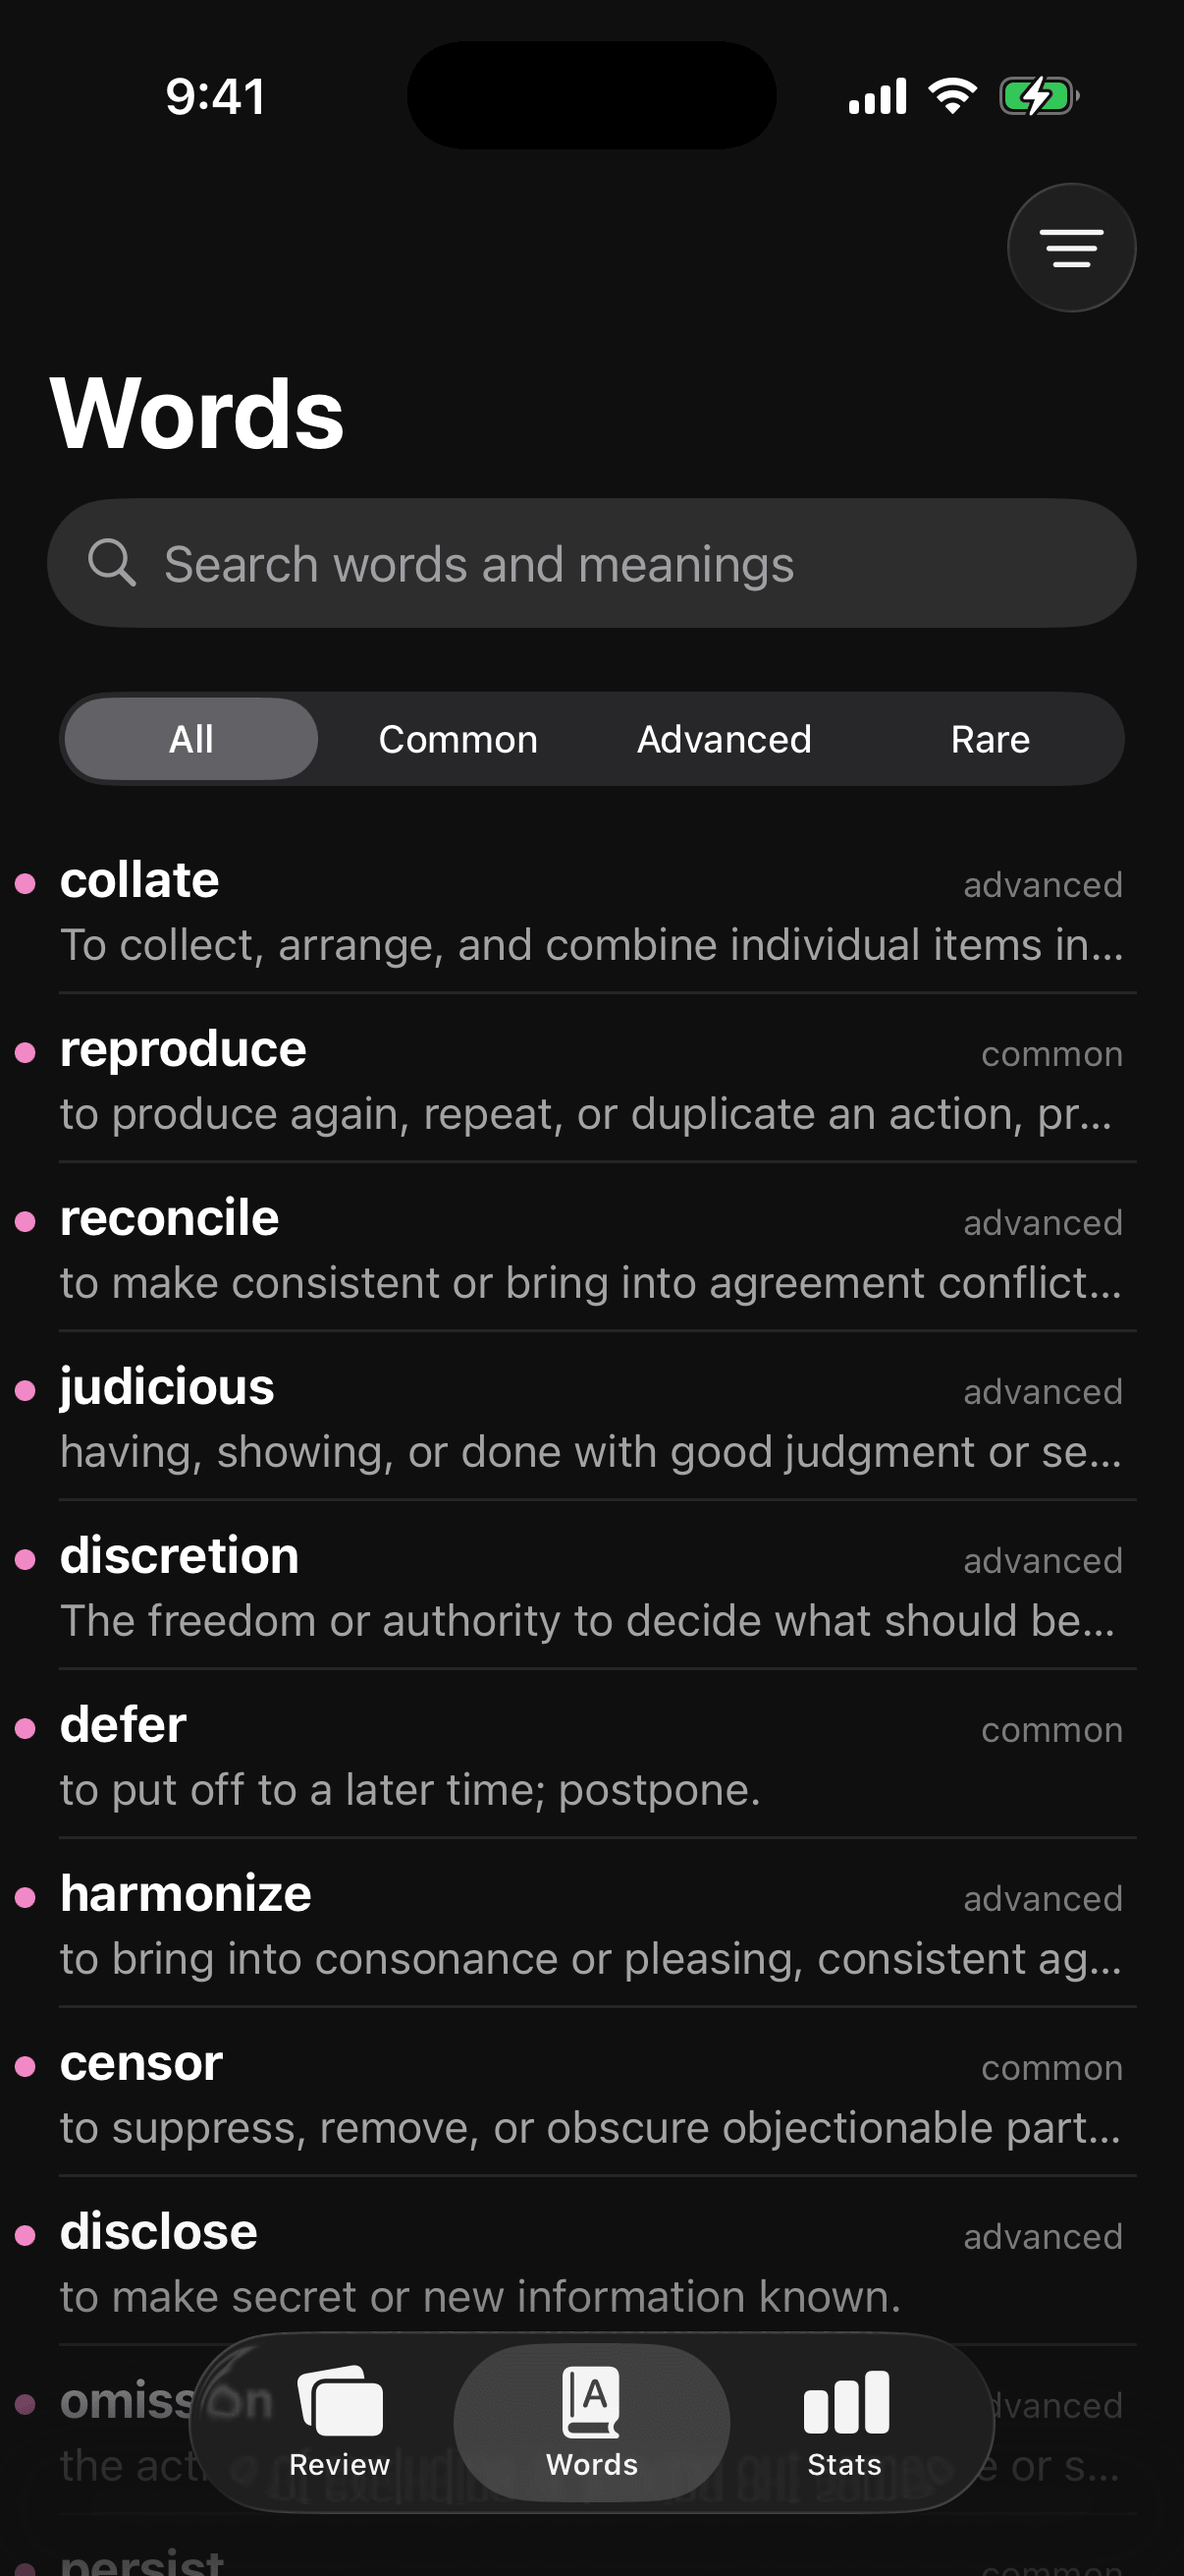
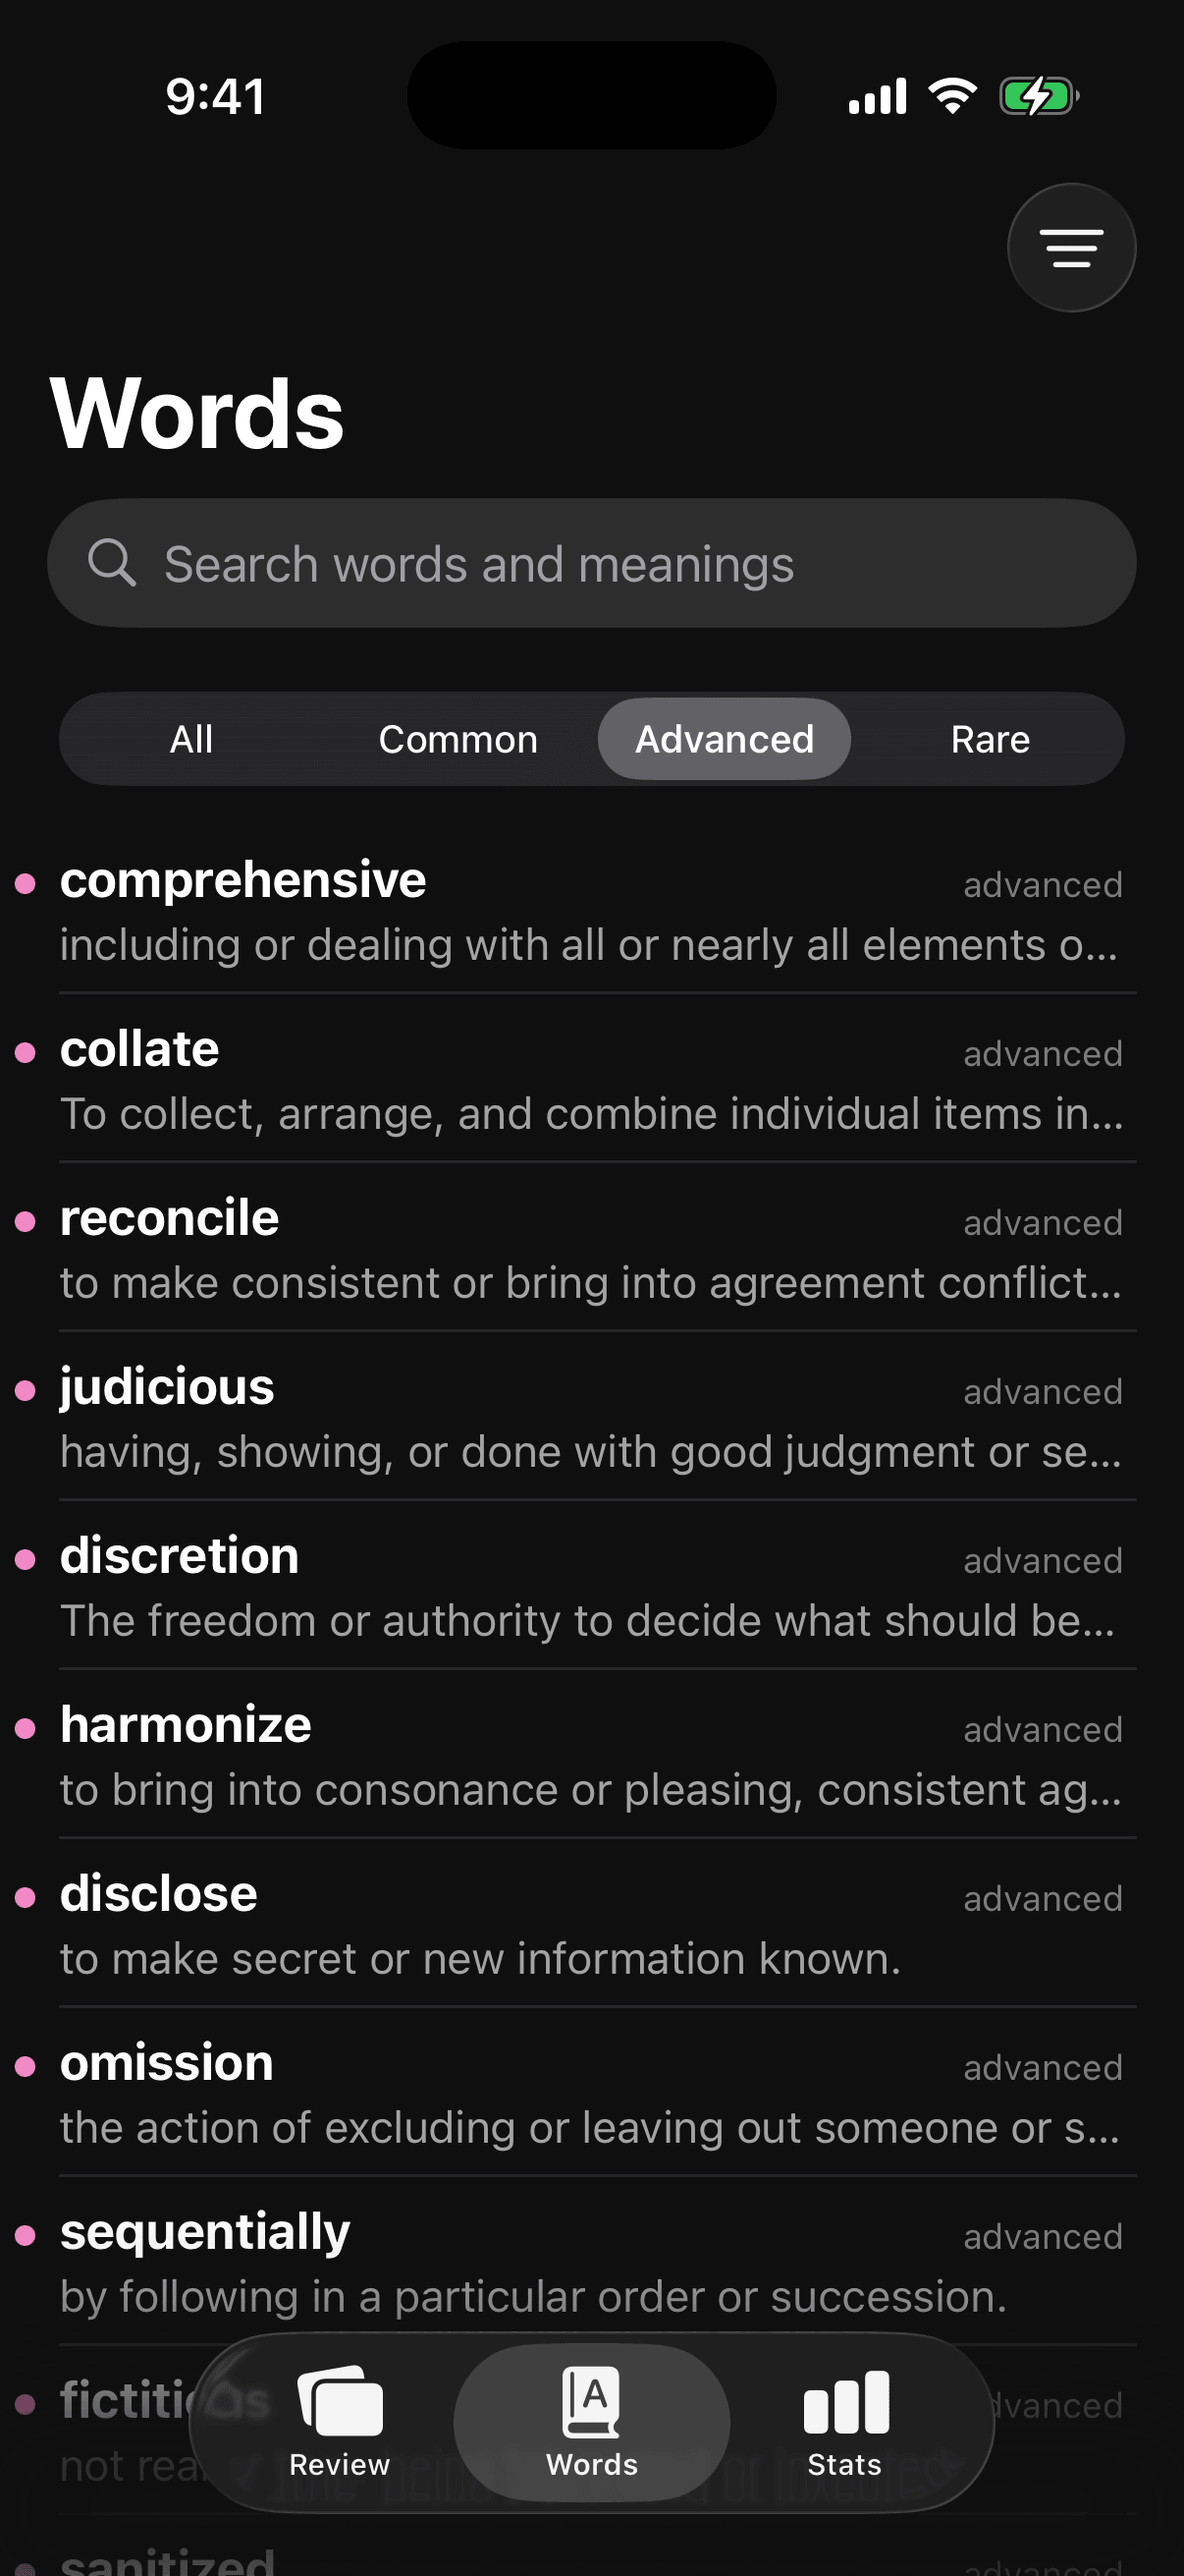
Show Words filtered to Advanced in the screenshots

diff --git a/docs/screenshots.md b/docs/screenshots.md
@@ -8,7 +8,7 @@ Every screenshot lives in `docs/assets/screenshots/`: six single screens, and th
 | `mac-review-answer.png` | The same card with its answer |
 | `iphone-review.png` | The iPhone's Review |
 | `iphone-review-answer.png` | The answer |
-| `iphone-words.png` | Words |
+| `iphone-words.png` | Words, filtered to Advanced |
 | `iphone-stats.png` | Stats |
 | `mac.png` | Both Mac screens side by side, for the README |
 | `iphone.png` | All four iPhone screens side by side, for the README |
@@ -111,7 +111,7 @@ sleep 2
 xcrun simctl io $device screenshot $out/iphone-review-answer.png
 ```
 
-Click **Words** in the Simulator's tab bar, then:
+Click **Words** in the Simulator's tab bar, then **Advanced** in its filter, then:
 
 ```sh
 xcrun simctl io $device screenshot $out/iphone-words.png
